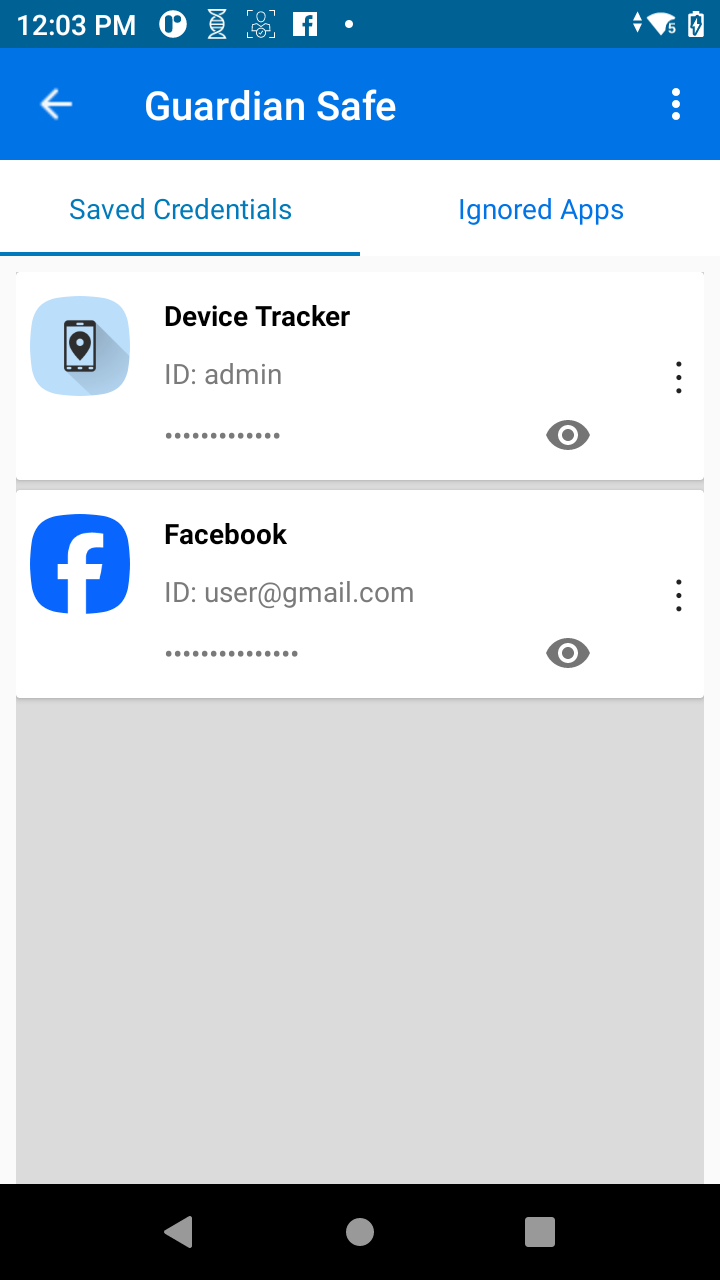
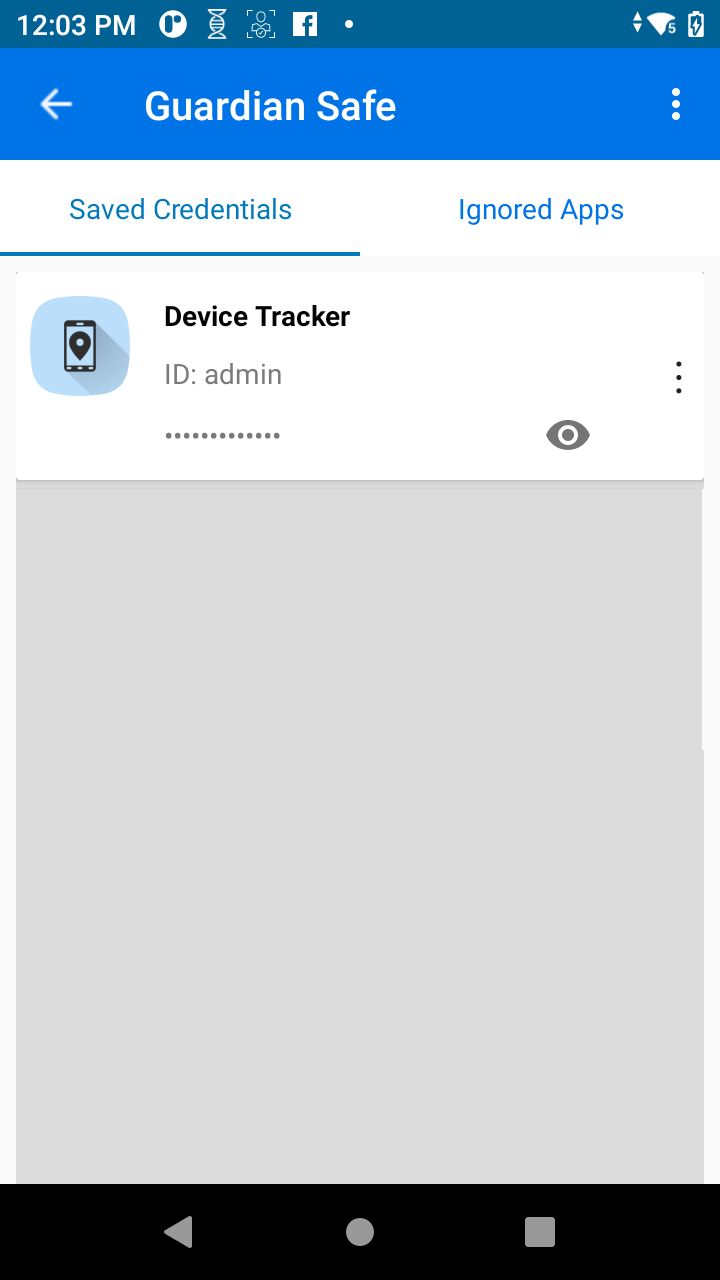
[TUT-101502] IG 1.5 - Guardian Safe

Changed region(s): [[0.0, 0.375, 0.9778, 0.5625]]

diff --git a/identityguardian/1-5/usage/index.html b/identityguardian/1-5/usage/index.html
@@ -986,7 +986,12 @@ When unlocking the device (e.g. pressing the power button or swiping to unlock),
 <img alt="image" style="height:350px" src="dt-login.png"></li>
 
 <li>A prompt appears asking if the user would like to save their credentials. Tap <strong>Yes.</strong>
-<img alt="image" style="height:350px" src="at-save.jpg"> <p style="color:red;">ADD DT SCREEN WITH SAVE YOUR CREDENTIALS POPUP - DEVA TO SUPPLY</p></li>
+
+
+<ul>
+<li>If <strong>No</strong> is selected, the user credentials are not saved, requiring the user to manually enter their credentials each time they log in to the app.
+<img alt="image" style="height:350px" src="dt-save-credentials.png"> </li></ul>
+</li>
 
 <li>The <strong>Guardian Safe</strong> input screen appears. Enter the user credentials and tap <strong>Save Credentials.</strong>
 <img alt="image" style="height:350px" src="dt-gs.png"> </li>
@@ -1056,20 +1061,36 @@ To change a saved password:
 
 <p><br></p>
 
-<h3 id="ignoreapps" class="anchor"><a class="heading-anchor" href="#ignoreapps"><span></span></a>Ignore Apps</h3>
+<h3 id="ignoredapps" class="anchor"><a class="heading-anchor" href="#ignoredapps"><span></span></a>Ignored Apps</h3>
 
-<p>Prevent Guardian Safe from saving login credentials from specific apps by designating them as <strong>Ignore Apps:</strong></p>
+<p>Prevent Guardian Safe from saving login credentials from specific apps by designating them as <strong>Ignored Apps:</strong></p>
 
 <ol>
-<li>Open an app in the login screen.</li>
+<li>Open an app in the login screen.
+<img alt="image" style="height:350px" src="dt-login.png"></li>
 
 <li>When prompted to save the user credentials during login, tap <strong>No.</strong>
-<img alt="image" style="height:350px" src="at-save.jpg"></li>
+<img alt="image" style="height:350px" src="dt-no-save.png"></li>
 
-<li>The app is now listed under the <strong>Ignored Apps</strong> tab in <strong>Guardian Safe.</strong>
-<img alt="image" style="height:350px" src="at-ignore-app.png"></li>
+<li>The user is directed back to the login screen and the login credentials are not saved. 
+<img alt="image" style="height:350px" src="dt-login-ignored.png"></li>
+</ol>
 
-<li>Future login attempts in this app will no longer trigger Guardian Safe to offer saving the login credentials and the Guardian Safe floating quick access button is no longer present.</li>
+<p>Future login attempts in this app will no longer trigger Guardian Safe to offer saving the login credentials and the Guardian Safe floating quick access button is no longer present. Additionally, the app is now listed under the <strong>Ignored Apps</strong> tab in <strong>Guardian Safe.</strong></p>
+
+<p>To view all <strong>Ignored Apps:</strong></p>
+
+<ol>
+<li>Open Identity Guardian.
+<img alt="image" style="height:350px" src="ig-home.png"></li>
+
+<li>Tap the menu icon in the top right corner and select <strong>Guardian Safe.</strong>
+<img alt="image" style="height:350px" src="ig-gs.png"></li>
+
+<li>Scan the Identity Guardian user barcode. Perform facial authentication or enter the user passcode.</li>
+
+<li>Tap the <strong>Ignored Apps</strong> tab. A list of ignored apps is displayed.
+<img alt="image" style="height:350px" src="dt-ignored-app.png"></li>
 </ol>
 
 <p><br></p>
@@ -1079,9 +1100,9 @@ To change a saved password:
 <p>There are two methods to modify an app's login credentials saved within Guardian Safe:</p>
 
 <ul>
-<li>Using Guardian Safe's floating quick access button on the app's login screen</li>
+<li>Using <strong>Guardian Safe's floating quick access button</strong> on the app's login screen</li>
 
-<li>Through Guardian Safe directly</li>
+<li>Through <strong>Guardian Safe</strong> directly with Identity Guardian</li>
 </ul>
 
 <p><strong>Floating Quick Access Button:</strong>
@@ -1109,7 +1130,7 @@ To edit the login credentials for an app through Guardian Safe:</p>
 <li>Tap the menu icon in the top right corner and select <strong>Guardian Safe.</strong>
 <img alt="image" style="height:350px" src="ig-gs.png"></li>
 
-<li>Scan the user barcode, then perform facial authentication.</li>
+<li>Scan the Identity Guardian user barcode, then perform facial authentication or enter the user passcode.</li>
 
 <li>In the <strong>Saved Credentials</strong> tab, find the app to modify. Tap its hamburger menu on the right and select <strong>Edit.</strong>
 <img alt="image" style="height:350px" src="edit-credentials.png"></li>
@@ -1138,9 +1159,13 @@ To edit the login credentials for an app through Guardian Safe:</p>
 <li>Scan the user's Identity Guardian barcode, then perform facial authentication or enter the user passcode.</li>
 
 <li>The apps with passwords saved are listed. In the <strong>Saved Credentials</strong> tab, find the app to modify the credentials. Tap its hamburger menu on the right and select <strong>Delete.</strong>
-<img alt="image" style="height:350px" src="edit-credentials.png"></li>
+<img alt="image" style="height:350px" src="delete-credentials.png"></li>
 
-<li>Tap <strong>Yes</strong> in the confirmation message. The app is removed from the list.</li>
+<li>Tap <strong>Yes</strong> in the confirmation message. 
+<img alt="image" style="height:350px" src="delete-credentials-confirm.png"></li>
+
+<li>The app is removed from the list.
+<img alt="image" style="height:350px" src="deleted-credentials.png"></li>
 </ol>
 
 <hr>
